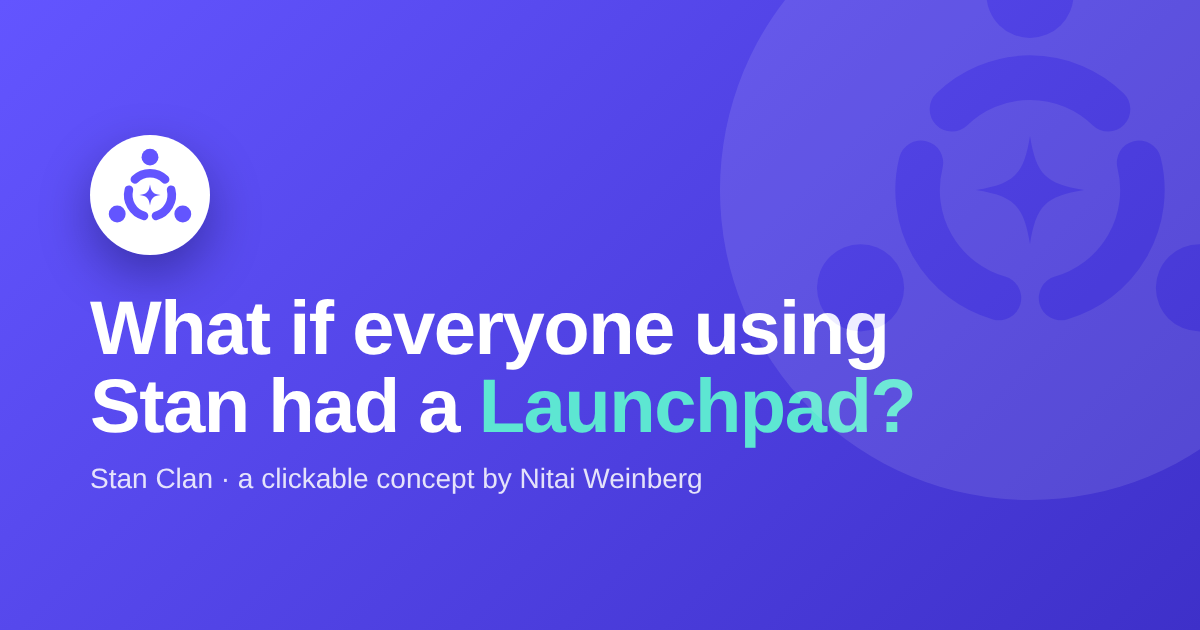
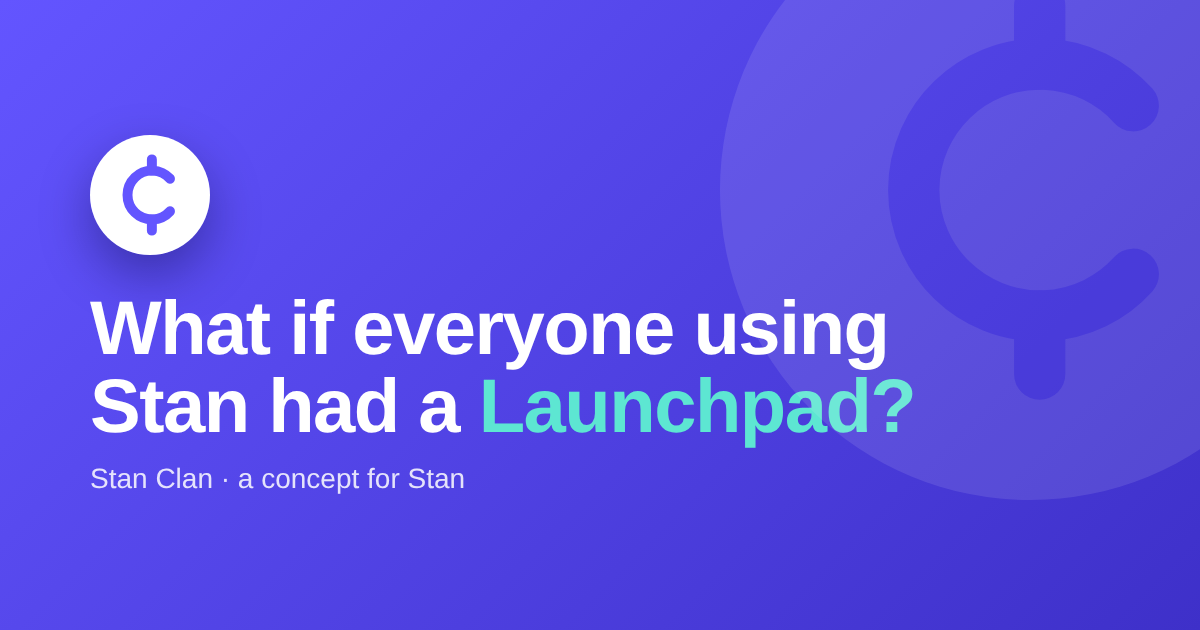
Cent-sign Clan mark, profile headshots, staged demo GIF
- New mark: a cent sign in Stan's purple circle, sibling to the Stan dollar sign
- Unsplash headshots on every member profile, with initials fallback
- Re-staged walkthrough GIF on a clean canvas with step captions
- Why-I-made-this note on the page and README

Claude-Session: https://claude.ai/code/session_01BrEENhLGwQWNfLLRCAqEYR

Changed region(s): [[0.2158, 0.7238, 0.5858, 0.7841], [0.0925, 0.2413, 0.1542, 0.3619]]

diff --git a/index.html b/index.html
@@ -190,6 +190,7 @@ button:focus-visible,input:focus-visible,textarea:focus-visible{outline:2px soli
 .members{display:flex;gap:10px;overflow-x:auto;padding-bottom:2px}
 .mem{display:flex;flex-direction:column;align-items:center;gap:4px;font-size:11px;font-weight:700;width:52px;flex:none}
 .av{width:34px;height:34px;border-radius:50%;display:grid;place-items:center;color:#fff;font-weight:700;font-size:12px;flex:none;position:relative}
+.av .face{position:absolute;inset:0;width:100%;height:100%;border-radius:50%;object-fit:cover}
 .mem .av{width:44px;height:44px;font-size:14px}
 .av.on::after{content:"";position:absolute;right:0;bottom:0;width:11px;height:11px;border-radius:50%;background:var(--good);border:2px solid var(--surface)}
 .list{display:flex;flex-direction:column;gap:8px}
@@ -307,7 +308,7 @@ button:focus-visible,input:focus-visible,textarea:focus-visible{outline:2px soli
     <div class="brandbar">
       <img class="stan-logo" src="assets/stan-logo.png" alt="Stan">
       <span class="x" aria-hidden="true">+</span>
-      <span class="clan-lockup"><span class="cm"><svg xmlns="http://www.w3.org/2000/svg" viewBox="0 0 64 64"><circle cx="32" cy="32" r="32" fill="#6355FF"/><g fill="none" stroke="#fff" stroke-width="4.6" stroke-linecap="round"><path d="M23.94 23.66A11.6 11.6 0 0 1 40.06 23.66"/><path d="M43.26 29.19A11.6 11.6 0 0 1 35.20 43.15"/><path d="M28.80 43.15A11.6 11.6 0 0 1 20.74 29.19"/></g><g fill="#fff"><circle cx="32.00" cy="11.80" r="4.5"/><circle cx="49.49" cy="42.10" r="4.5"/><circle cx="14.51" cy="42.10" r="4.5"/></g><path d="M32 26.4C32.64 30.4 33.6 31.36 37.6 32C33.6 32.64 32.64 33.6 32 37.6C31.36 33.6 30.4 32.64 26.4 32C30.4 31.36 31.36 30.4 32 26.4Z" fill="#5DE6D2"/></svg></span><span class="wm">Stan <b>Clan</b></span></span>
+      <span class="clan-lockup"><span class="cm"><svg xmlns="http://www.w3.org/2000/svg" viewBox="0 0 64 64"><circle cx="32" cy="32" r="32" fill="#6355FF"/><path d="M42.66 23.30A13 13 0 1 0 42.66 40.70" fill="none" stroke="#fff" stroke-width="5.3" stroke-linecap="round" stroke-linejoin="round"/><path d="M33 19v-6M33 45v6" fill="none" stroke="#fff" stroke-width="5.3" stroke-linecap="round" stroke-linejoin="round"/></svg></span><span class="wm">Stan <b>Clan</b></span></span>
     </div>
     <div>
       <div class="eyebrow">A working prototype</div>
@@ -316,7 +317,7 @@ button:focus-visible,input:focus-visible,textarea:focus-visible{outline:2px soli
     </div>
     <nav class="chapters" id="chapters" aria-label="Chapters"></nav>
     <article class="panel" id="panel" aria-live="polite"></article>
-    <p class="disclaimer">Independent concept by Nitai Weinberg, inspired by Launchpad. Not an official Stan product. Every person, message and number in the phone is invented for the demo. Photos from <a href="https://unsplash.com" style="color:inherit">Unsplash</a> by Detail .co, Jud Mackrill, Happy &amp; Spice, Vitaly Gariev and Kelly Sikkema.</p>
+    <p class="disclaimer"><strong style="color:var(--ink)">Why I made this:</strong> I&#39;m sharing the idea because I think it would be really cool if Stan built it. No ask, no strings.<br><br>Independent concept by Nitai Weinberg, inspired by Launchpad. Not an official Stan product. Every person, message and number in the phone is invented for the demo. Photos from <a href="https://unsplash.com" style="color:inherit">Unsplash</a> by Detail .co, Jud Mackrill, Happy &amp; Spice, Vitaly Gariev and Kelly Sikkema.</p>
   </section>
 
   <div class="phone-col">
@@ -326,7 +327,7 @@ button:focus-visible,input:focus-visible,textarea:focus-visible{outline:2px soli
         <!-- Onboarding -->
         <div class="screen" id="s-onboard">
           <div class="hdr">
-            <div class="logo-disc" aria-hidden="true"><svg xmlns="http://www.w3.org/2000/svg" viewBox="0 0 64 64"><circle cx="32" cy="32" r="32" fill="#fff"/><g fill="none" stroke="#6355FF" stroke-width="4.6" stroke-linecap="round"><path d="M23.94 23.66A11.6 11.6 0 0 1 40.06 23.66"/><path d="M43.26 29.19A11.6 11.6 0 0 1 35.20 43.15"/><path d="M28.80 43.15A11.6 11.6 0 0 1 20.74 29.19"/></g><g fill="#6355FF"><circle cx="32.00" cy="11.80" r="4.5"/><circle cx="49.49" cy="42.10" r="4.5"/><circle cx="14.51" cy="42.10" r="4.5"/></g><path d="M32 26.4C32.64 30.4 33.6 31.36 37.6 32C33.6 32.64 32.64 33.6 32 37.6C31.36 33.6 30.4 32.64 26.4 32C30.4 31.36 31.36 30.4 32 26.4Z" fill="#6355FF"/></svg></div>
+            <div class="logo-disc" aria-hidden="true"><svg xmlns="http://www.w3.org/2000/svg" viewBox="0 0 64 64"><circle cx="32" cy="32" r="32" fill="#fff"/><path d="M42.66 23.30A13 13 0 1 0 42.66 40.70" fill="none" stroke="#6355FF" stroke-width="5.3" stroke-linecap="round" stroke-linejoin="round"/><path d="M33 19v-6M33 45v6" fill="none" stroke="#6355FF" stroke-width="5.3" stroke-linecap="round" stroke-linejoin="round"/></svg></div>
             <h2>Finding your clan</h2>
             <div class="sub">Powered by Stan AI · 2 questions</div>
           </div>
@@ -353,7 +354,7 @@ button:focus-visible,input:focus-visible,textarea:focus-visible{outline:2px soli
         <!-- Clan home -->
         <div class="screen tabbed" id="s-home" hidden>
           <div class="hdr">
-            <div class="logo-disc" aria-hidden="true"><svg xmlns="http://www.w3.org/2000/svg" viewBox="0 0 64 64"><circle cx="32" cy="32" r="32" fill="#fff"/><g fill="none" stroke="#6355FF" stroke-width="4.6" stroke-linecap="round"><path d="M23.94 23.66A11.6 11.6 0 0 1 40.06 23.66"/><path d="M43.26 29.19A11.6 11.6 0 0 1 35.20 43.15"/><path d="M28.80 43.15A11.6 11.6 0 0 1 20.74 29.19"/></g><g fill="#6355FF"><circle cx="32.00" cy="11.80" r="4.5"/><circle cx="49.49" cy="42.10" r="4.5"/><circle cx="14.51" cy="42.10" r="4.5"/></g><path d="M32 26.4C32.64 30.4 33.6 31.36 37.6 32C33.6 32.64 32.64 33.6 32 37.6C31.36 33.6 30.4 32.64 26.4 32C30.4 31.36 31.36 30.4 32 26.4Z" fill="#6355FF"/></svg></div>
+            <div class="logo-disc" aria-hidden="true"><svg xmlns="http://www.w3.org/2000/svg" viewBox="0 0 64 64"><circle cx="32" cy="32" r="32" fill="#fff"/><path d="M42.66 23.30A13 13 0 1 0 42.66 40.70" fill="none" stroke="#6355FF" stroke-width="5.3" stroke-linecap="round" stroke-linejoin="round"/><path d="M33 19v-6M33 45v6" fill="none" stroke="#6355FF" stroke-width="5.3" stroke-linecap="round" stroke-linejoin="round"/></svg></div>
             <h2 id="clan-name">Fitness Coaches</h2>
             <div class="sub" id="clan-sub">12 creators · 4 online now · Season 1, week 2</div>
           </div>
@@ -458,7 +459,7 @@ button:focus-visible,input:focus-visible,textarea:focus-visible{outline:2px soli
         <nav class="tabs" id="tabs" aria-label="Stan sections" hidden>
           <button class="tab" data-tab="stanley"><img class="ti" src="assets/stanley-mascot.png" alt="">Stanley</button>
           <button class="tab" data-tab="store"><img class="ti" src="assets/stan-mark.png" alt="">Store</button>
-          <button class="tab" data-tab="home"><span class="ti"><svg xmlns="http://www.w3.org/2000/svg" viewBox="0 0 64 64"><circle cx="32" cy="32" r="32" fill="#6355FF"/><g fill="none" stroke="#fff" stroke-width="4.6" stroke-linecap="round"><path d="M23.94 23.66A11.6 11.6 0 0 1 40.06 23.66"/><path d="M43.26 29.19A11.6 11.6 0 0 1 35.20 43.15"/><path d="M28.80 43.15A11.6 11.6 0 0 1 20.74 29.19"/></g><g fill="#fff"><circle cx="32.00" cy="11.80" r="4.5"/><circle cx="49.49" cy="42.10" r="4.5"/><circle cx="14.51" cy="42.10" r="4.5"/></g><path d="M32 26.4C32.64 30.4 33.6 31.36 37.6 32C33.6 32.64 32.64 33.6 32 37.6C31.36 33.6 30.4 32.64 26.4 32C30.4 31.36 31.36 30.4 32 26.4Z" fill="#5DE6D2"/></svg></span>Clan<span class="badge">4</span></button>
+          <button class="tab" data-tab="home"><span class="ti"><svg xmlns="http://www.w3.org/2000/svg" viewBox="0 0 64 64"><circle cx="32" cy="32" r="32" fill="#6355FF"/><path d="M42.66 23.30A13 13 0 1 0 42.66 40.70" fill="none" stroke="#fff" stroke-width="5.3" stroke-linecap="round" stroke-linejoin="round"/><path d="M33 19v-6M33 45v6" fill="none" stroke="#fff" stroke-width="5.3" stroke-linecap="round" stroke-linejoin="round"/></svg></span>Clan<span class="badge">4</span></button>
         </nav>
 
         <div class="status" id="status"><span>9:41</span><span class="island"></span><span class="batt"></span></div>
@@ -477,7 +478,9 @@ const $$ = s => [...document.querySelectorAll(s)];
 const COLORS = ['#E8735A','#3E9BD6','#C25BB5','#2FAE84','#D69B2D','#6A5AE6','#E2557F','#4C7FE0','#1E8C8C','#9B6B3F'];
 const esc = s => String(s).replace(/[&<>"]/g, c => ({'&':'&amp;','<':'&lt;','>':'&gt;','"':'&quot;'}[c]));
 const initials = n => n.split(' ').map(w=>w[0]).join('').slice(0,2);
-const avHtml = (name, i, cls='') => `<span class="av ${cls}" style="background:${COLORS[i%COLORS.length]}" aria-hidden="true">${esc(initials(name))}</span>`;
+const FACES = {"Maya R.": "1494790108377-be9c29b29330", "Priya S.": "1580489944761-15a19d654956", "Tess A.": "1562337404-3044c84ac061", "Jada P.": "1701096351544-7de3c7fa0272", "Aisha N.": "1573294705900-9623cfc746b7", "Clara V.": "1607990283143-e81e7a2c9349", "Mei L.": "1573497491765-dccce02b29df", "Nadia F.": "1745434159123-4908d0b9df94", "Hana Y.": "1627161683077-e34782c24d81", "Ola B.": "1573496359142-b8d87734a5a2", "Grace W.": "1573497019940-1c28c88b4f3e", "Iris K.": "1699899657680-421c2c2d5064", "Bea C.": "1611432579699-484f7990b127", "Ivy Z.": "1573496358961-3c82861ab8f4", "Rosa M.": "1611695434369-a8f5d76ceb7b", "Devon K.": "1507003211169-0a1dd7228f2d", "Luis M.": "1651684215020-f7a5b6610f23", "Owen B.": "1576558656222-ba66febe3dec", "Jonah P.": "1583123810408-23e7b5d1af9f", "Ren T.": "1531750026848-8ada78f641c2", "Sam O.": "1560250097-0b93528c311a", "Nate H.": "1629425733761-caae3b5f2e50", "Marco L.": "1500648767791-00dcc994a43e", "Ben T.": "1519085360753-af0119f7cbe7", "Eli G.": "1595211877493-41a4e5f236b3", "Kofi D.": "1652471943570-f3590a4e52ed", "Theo R.": "1507003211169-0a1dd7228f2d", "Dan W.": "1651684215020-f7a5b6610f23"};
+const face = n => FACES[n] ? `<img class="face" src="https://images.unsplash.com/photo-${FACES[n]}?auto=format&fit=crop&crop=faces&w=160&h=160&q=70" alt="" loading="lazy" onerror="this.remove()">` : '';
+const avHtml = (name, i, cls='') => `<span class="av ${cls}" style="background:${COLORS[i%COLORS.length]}" aria-hidden="true">${esc(initials(name))}${face(name)}</span>`;
 
 /* ---------------- Data ---------------- */
 const NICHES = {
@@ -863,7 +866,7 @@ const CH = [
     <div class="pillars">
       <button class="pill" data-pgo="stanley"><img class="pi" src="assets/stanley-mascot.png" alt=""><small>01</small><b>Stanley</b><span>How you grow</span></button>
       <button class="pill" data-pgo="store"><img class="pi" src="assets/stan-mark.png" alt=""><small>02</small><b>Stan Store</b><span>How you monetize</span></button>
-      <button class="pill us" data-pgo="home"><span class="pi"><svg xmlns="http://www.w3.org/2000/svg" viewBox="0 0 64 64"><circle cx="32" cy="32" r="32" fill="#fff"/><g fill="none" stroke="#6355FF" stroke-width="4.6" stroke-linecap="round"><path d="M23.94 23.66A11.6 11.6 0 0 1 40.06 23.66"/><path d="M43.26 29.19A11.6 11.6 0 0 1 35.20 43.15"/><path d="M28.80 43.15A11.6 11.6 0 0 1 20.74 29.19"/></g><g fill="#6355FF"><circle cx="32.00" cy="11.80" r="4.5"/><circle cx="49.49" cy="42.10" r="4.5"/><circle cx="14.51" cy="42.10" r="4.5"/></g><path d="M32 26.4C32.64 30.4 33.6 31.36 37.6 32C33.6 32.64 32.64 33.6 32 37.6C31.36 33.6 30.4 32.64 26.4 32C30.4 31.36 31.36 30.4 32 26.4Z" fill="#6355FF"/></svg></span><small>03</small><b>Stan Clan</b><span>How you belong</span></button>
+      <button class="pill us" data-pgo="home"><span class="pi"><svg xmlns="http://www.w3.org/2000/svg" viewBox="0 0 64 64"><circle cx="32" cy="32" r="32" fill="#fff"/><path d="M42.66 23.30A13 13 0 1 0 42.66 40.70" fill="none" stroke="#6355FF" stroke-width="5.3" stroke-linecap="round" stroke-linejoin="round"/><path d="M33 19v-6M33 45v6" fill="none" stroke="#6355FF" stroke-width="5.3" stroke-linecap="round" stroke-linejoin="round"/></svg></span><small>03</small><b>Stan Clan</b><span>How you belong</span></button>
     </div>`},
   {k:'How it ships', screen:null, html:`
     <div class="eyebrow">How this ships</div>

diff --git a/README.md b/README.md
@@ -14,7 +14,7 @@ Open `index.html` in a browser, or turn on GitHub Pages for this repo (Settings 
 
 - **Deck tour**: eight chapters from the proposal (the problem, who it's for, matching, your cohort, drop-in, why Stan, three pillars, how it ships). Each chapter drives the phone.
 - **Matching**: two-question onboarding, then a matching screen built from data Stan already has.
-- **Cohort home**: live office hours, member profiles, and Demo Friday wins you can post and cheer.
+- **Cohort home**: live office hours, member profiles with headshots, and Demo Friday wins you can post and cheer.
 - **Office hours room**: live captions, chat, reactions, raise your hand to speak.
 - **Clan directory**: 15 clans with filters; join up to three.
 - **Stanley and Store tabs**: both hand off to the cohort.
@@ -23,4 +23,6 @@ No build step and no dependencies. Everything is in `index.html` plus `assets/`.
 
 ---
 
-Independent concept by Nitai Weinberg, inspired by Launchpad. Not an official Stan product. Stan and Stanley names and logos belong to Stan. Every person, message and number in the prototype is invented. Photos from Unsplash (Unsplash License) by Detail .co, Jud Mackrill, Happy & Spice, Vitaly Gariev and Kelly Sikkema.
+Independent concept by Nitai Weinberg, inspired by Launchpad. Not an official Stan product. Stan and Stanley names and logos belong to Stan. Every person, message and number in the prototype is invented. Scene photos and headshots are from Unsplash, used under the Unsplash License. Scene photos by Detail .co, Jud Mackrill, Happy & Spice, Vitaly Gariev and Kelly Sikkema. Headshots by Michael Dam, Jake Nackos, Joseph Gonzalez, Kate Kozyrka, nrd, The Connected Narrative, Troy Spoelma, Ryan Hoffman, Mehran Hadad, Compagnons, Christina @ wocintechchat.com, Marcos Paulo Prado, Brooke Balentine, Jackson Schaal, LinkedIn Sales Solutions, Clay Elliot, Willian Souza, Giorgio Trovato, Jurica Koletić, Ali Morshedlou, alex starnes and Tony Luginsland.
+
+I'm sharing this because I think it would be really cool if Stan built it.
